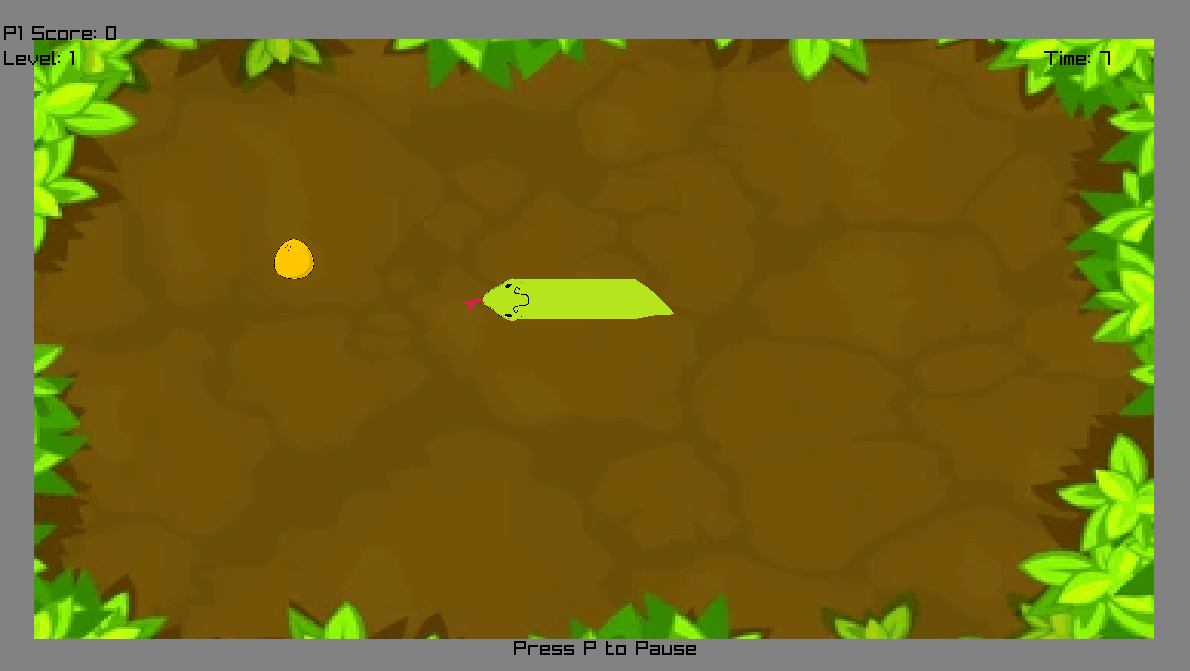
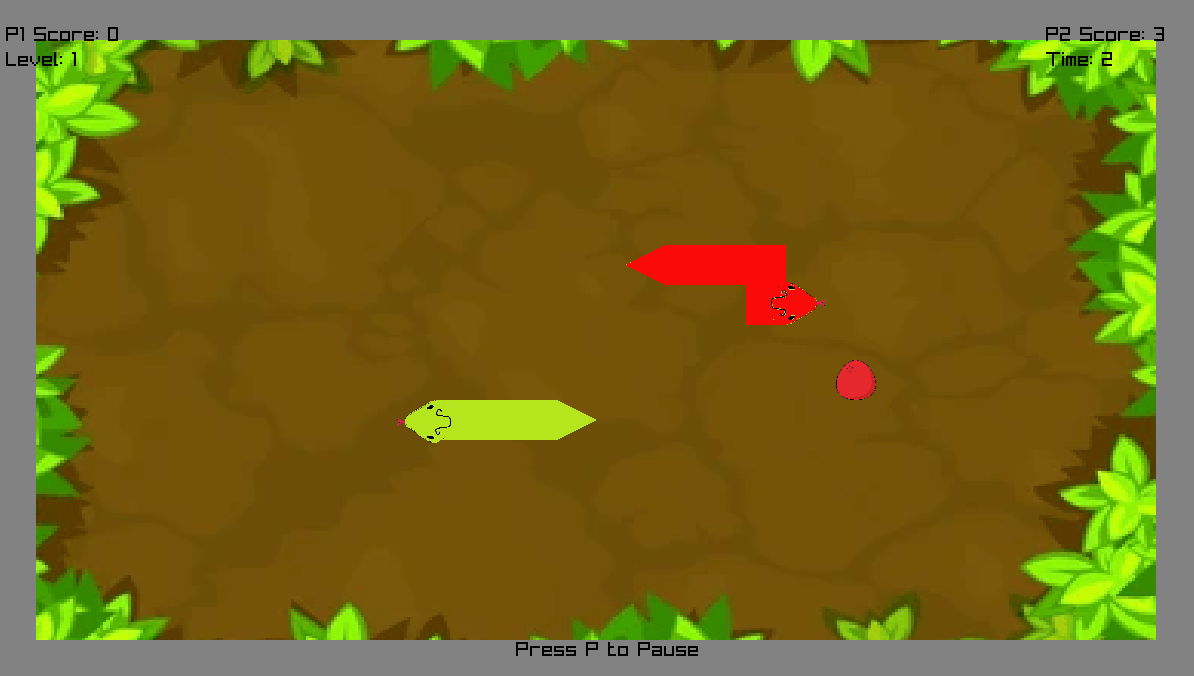
Increased powerup appearing rate

diff --git a/src/game.c b/src/game.c
@@ -456,7 +456,7 @@ void updateGameplay(float deltaTime) {
         bombTimer = 0.0f;
     }
     
-    if (powerupTimer >= 20.0f) {
+    if (powerupTimer >= 10.0f) {
         generateNewPowerup();
         powerupTimer = 0.0f;
     }

diff --git a/README.md b/README.md
@@ -3,16 +3,28 @@
 A feature-rich, modular Snake game **built entirely in C** using the Raylib framework. This project demonstrates the power of **pure C programming** to create a modern, polished arcade experience, highlighted by its **unique "Tactical Reverse" mechanic** that completely redefines the classic gameplay loop.
 
 
-<p align="center">
-  <img src="assets/demo.png" width="45%" />
-  <img src="assets/demo2.png" width="45%" />
-</p>
+
+![Gameplay Demo 1](assets/demo.png)
+![Gameplay Demo 2](assets/demo2.png)
 
 ## 🌟 Unique Feature: Tactical Reverse
 Unlike traditional Snake games where reversing direction is a death sentence, **SNAKEYYY** introduces a strategic **Reverse Mechanic**.
 *   **How it works**: You can instantly reverse your direction directly into your own body.
 *   **The Cost**: Doing so is not free! You will sacrifice body segments and score points as you "consume" yourself to reverse.
 *   **The Strategy**: Use this to escape 100% trapped situations, confuse opponents in multiplayer, or make impossible turns in the Maze mode. It turns a "Game Over" scenario into a "Costly Survival" choice.
+
+## ⚡ Power-ups & Hazards
+Navigate the board carefully to collect helpful boosts while avoiding deadly traps.
+
+### Power-ups
+*   **🔵 Speed Boost**: Temporarily increases your snake's movement speed. Great for trapping opponents!
+*   **⚪ Ghost Mode**: Allows you to pass through walls, obstacles, and even your own tail for a short duration.
+*   **🟢 Invincibility**: Protects you from death upon collision.
+*   **🟡 Double Points**: Every food item eaten grants 2x the score.
+
+### Hazards
+*   **💣 Bombs**: Deadly explosives that spawn randomly in Survival Mode. Contact results in immediate game over!
+*   **🧱 Obstacles**: Static walls found in Maze Mode. Plan your path wisely.
 
 ## 🚀 Game Modes
 *   **Classic Mode**: The traditional experience. Eat food, grow long, avoid walls.
